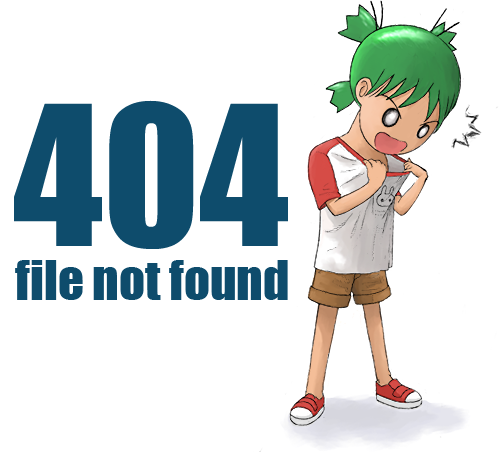
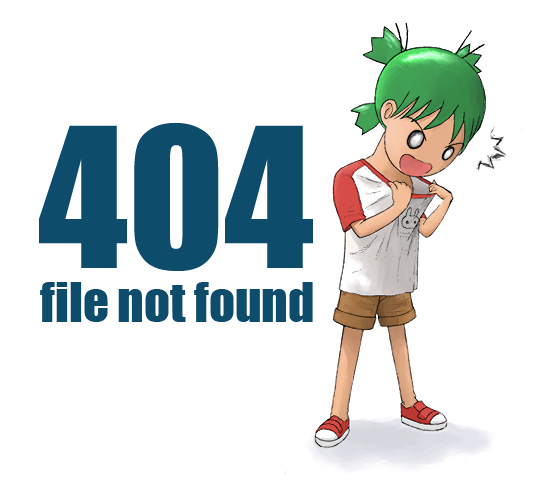
New images, more error pages, better styling

Changed region(s): [[0.03, 0.0, 0.96, 0.9868]]

diff --git a/index.html b/index.html
@@ -4,13 +4,15 @@
     <meta charset="utf-8">
     <meta name="viewport" content="width=device-width, initial-scale=1.0" />
 
-    <title>Nothing here</title>
+    <title>Ololo</title>
 
-    <link rel="stylesheet" href="/style.css" />
+    <link rel="stylesheet" href="./style.css" />
 </head>
 <body>
-    <img src="404.png" />
-    <h1 style="margin:0;">Nothing to see here</h1>
-    <p style="margin:0;">Move along, citizen</p>
+    <div class="http-status">
+        <img src="./index.jpg" />
+        <h1>Nothing to see here</h1>
+        <p>Move along, citizen.</p>
+    </div>
 </body>
 </html>

diff --git a/style.css b/style.css
@@ -1,13 +1,27 @@
 body {
-    max-width: 1200px;
+    max-width: 1280px;
     margin: 0 auto;
     font-family: Verdana, Geneva, Tahoma, sans-serif;
     padding: 50px 30px 15px;
-    text-align: center;
     color: #1B3F5C;
 }
-img {
-    max-width: 100%;
+
+h1 {
+    margin: 30px 0 15px;
+}
+
+p {
+    margin: 10px 0;
+}
+
+div.http-status {
+    /*margin: auto auto;*/
+    text-align: center;
+}
+div.http-status > img {
+    max-width: 500px;
+    border: 1px solid #1B3F5C;
+    box-shadow: 0 0 35px #1B3F5C;
 }
 
 @media only screen and (max-width: 400px) {

diff --git a/401.html b/401.html
@@ -4,15 +4,15 @@
     <meta charset="utf-8">
     <meta name="viewport" content="width=device-width, initial-scale=1.0" />
 
-    <title>Error 404</title>
+    <title>Error 401</title>
 
     <link rel="stylesheet" href="./style.css" />
 </head>
 <body>
     <div class="http-status">
-        <img src="./404.png">
-        <h1>No such page</h1>
-        <p>Check your URL.</p>
+        <img src="./401.jpg">
+        <h1>401 - Unauthorized</h1>
+        <p>Wrong password, you twat.</p>
     </div>
 </body>
 </html>

diff --git a/403.html b/403.html
@@ -4,11 +4,15 @@
     <meta charset="utf-8">
     <meta name="viewport" content="width=device-width, initial-scale=1.0" />
 
-    <title>403</title>
+    <title>Error 403</title>
 
-    <link rel="stylesheet" href="/style.css" />
+    <link rel="stylesheet" href="./style.css" />
 </head>
 <body>
-    <img src="/403.png">
+    <div class="http-status">
+        <img src="./403.jpg">
+        <h1>403 - Forbidden</h1>
+        <p>You can't be here.</p>
+    </div>
 </body>
 </html>
